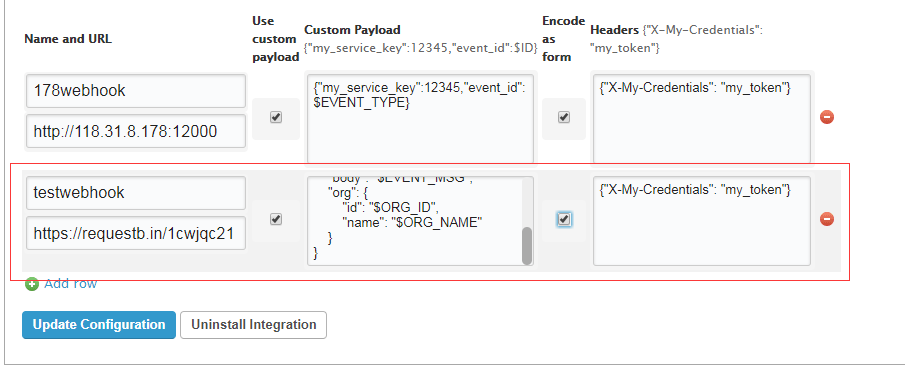
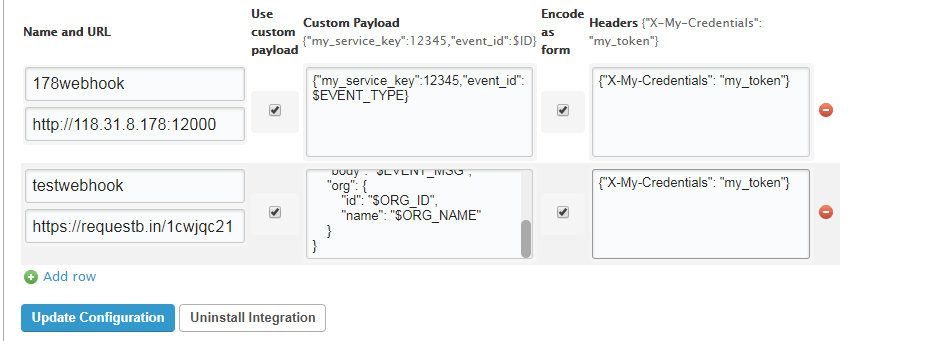
更新Datadog监控系统

diff --git a/07-build-my-system/20171210-datadog-monitor/readme.md b/07-build-my-system/20171210-datadog-monitor/readme.md
@@ -295,7 +295,7 @@ With Webhooks you'll be able to:
 
 ### 使用RequestBin测试
 
-上面创建了一个RequestBin，获取了一个可用的URL：https://requestb.in/shbigcsh
+上面创建了一个RequestBin，获取了一个可用的URL：https://requestb.in/1cwjqc21
 
 接下来就是在Datadog的webhook配置界面新增一个关联到该URL的webhook配置了！
 
@@ -307,9 +307,7 @@ With Webhooks you'll be able to:
 
 然后【Update Configuration】即可完成webhook的新增
 
-接下来为了使用webhook，就需要将该webhook以`@webhook-name_of_the_webhook`的格式，比如我上面设置webhook对应的是`@webhook-testwebhook`，绑定到一个metric alert上
-
-怎么绑定到metric alert上呢？
+接下来为了使用webhook，就需要将该webhook以`@webhook-name_of_the_webhook`的格式，比如我上面设置webhook对应的是`@webhook-testwebhook`，然后进行测试
 
 点击[这个链接](https://app.Datadoghq.com/event/stream?tags_execution=and&show_private=true&per_page=30&aggregate_up=true&use_date_happened=false&display_timeline=true&from_ts=1512961200000&priority=normal&live=true&is_zoomed=false&status=all&to_ts=1513047600000&is_auto=false&incident=true&only_discussed=false&no_user=false&page=0&bucket_size=1800000)
 
@@ -464,6 +462,16 @@ httpd.serve_forever()
 可以看到在`118.31.8.178`这台机器上的输出如下
 
 ![image](./image/15.png)
+
+### webhook在Datadog的配置
+
+上面是直接通过在[这个链接](https://app.Datadoghq.com/event/stream?tags_execution=and&show_private=true&per_page=30&aggregate_up=true&use_date_happened=false&display_timeline=true&from_ts=1512961200000&priority=normal&live=true&is_zoomed=false&status=all&to_ts=1513047600000&is_auto=false&incident=true&only_discussed=false&no_user=false&page=0&bucket_size=1800000)手动发送webhook的方式来进行测试的
+
+实际的系统监控中显然不可能是这样的，需要将一个webhook绑定到一个metric alert上
+
+怎么绑定到metric alert上呢？
+
+
 
 # 简单总结
 
